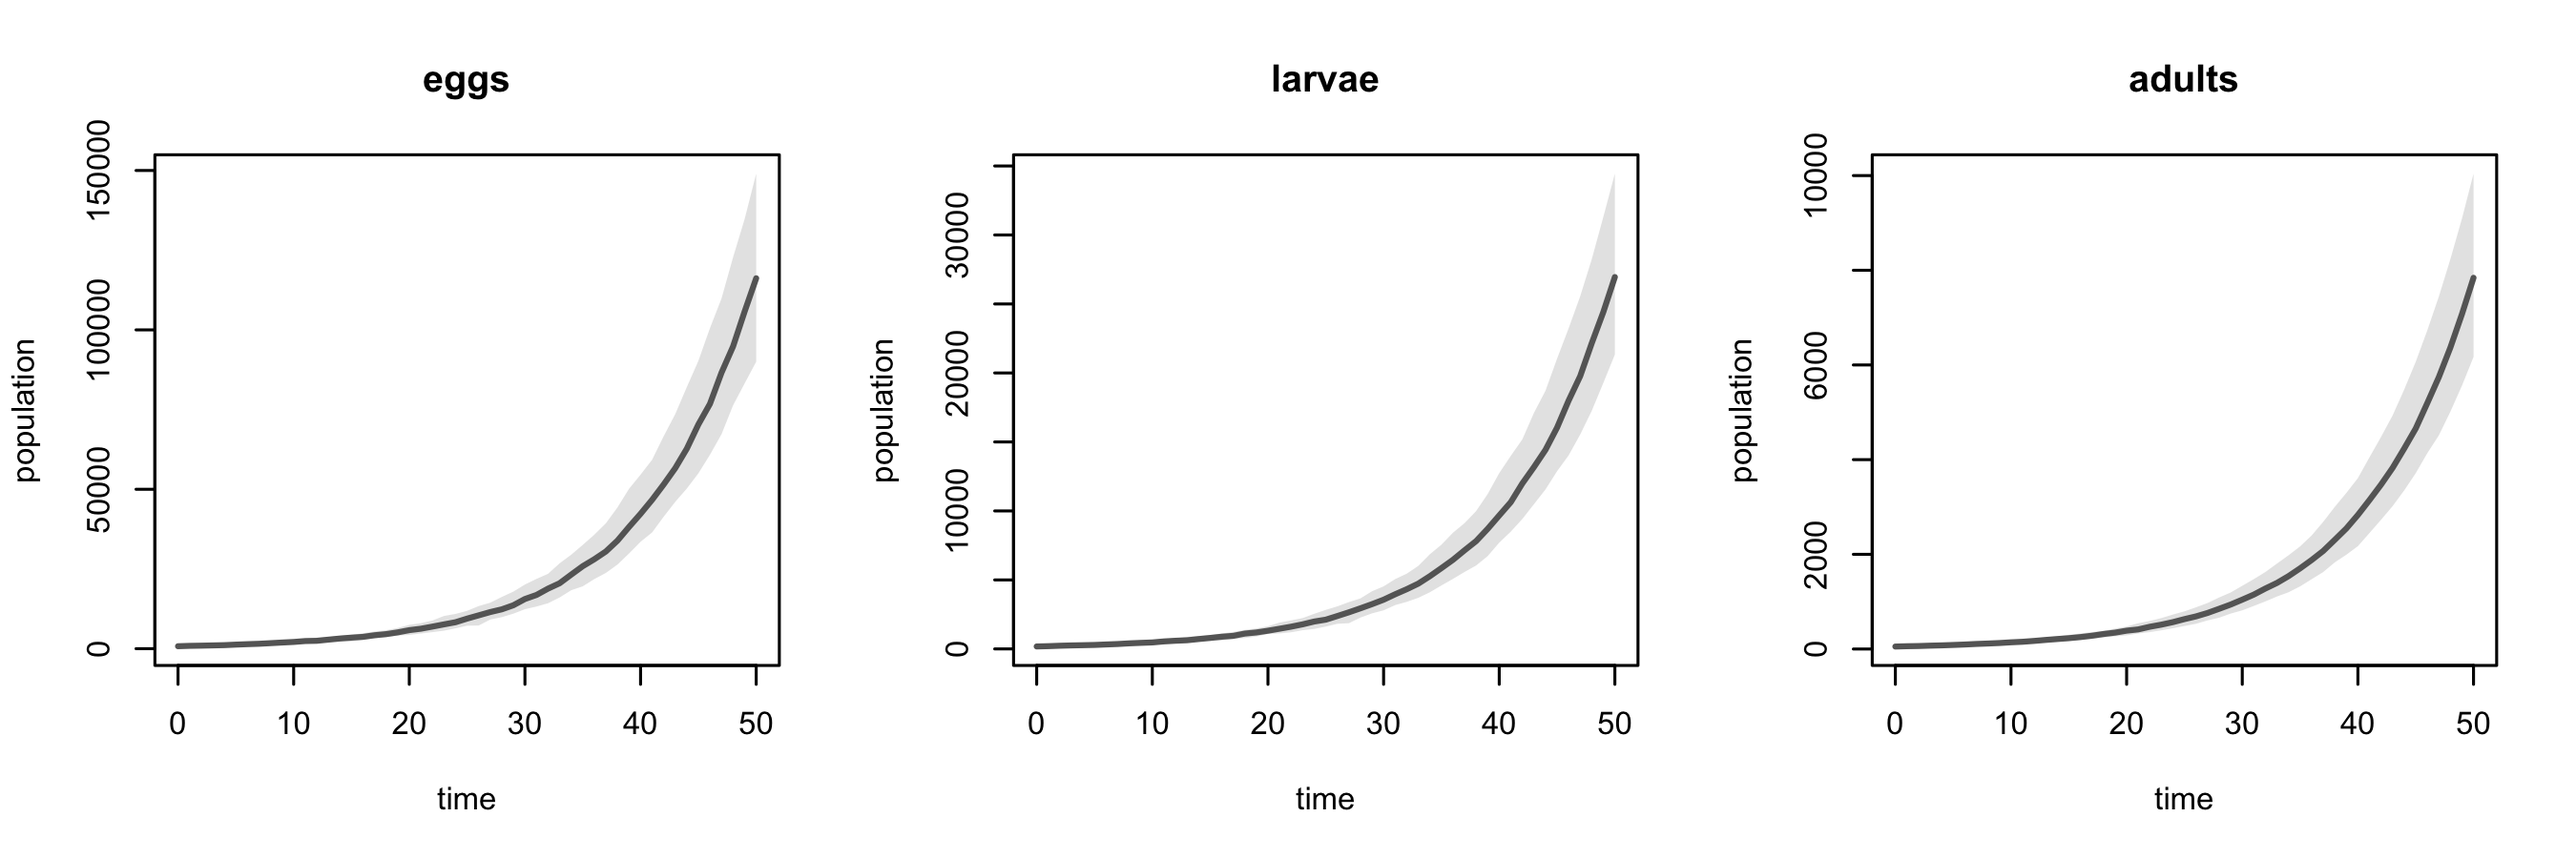
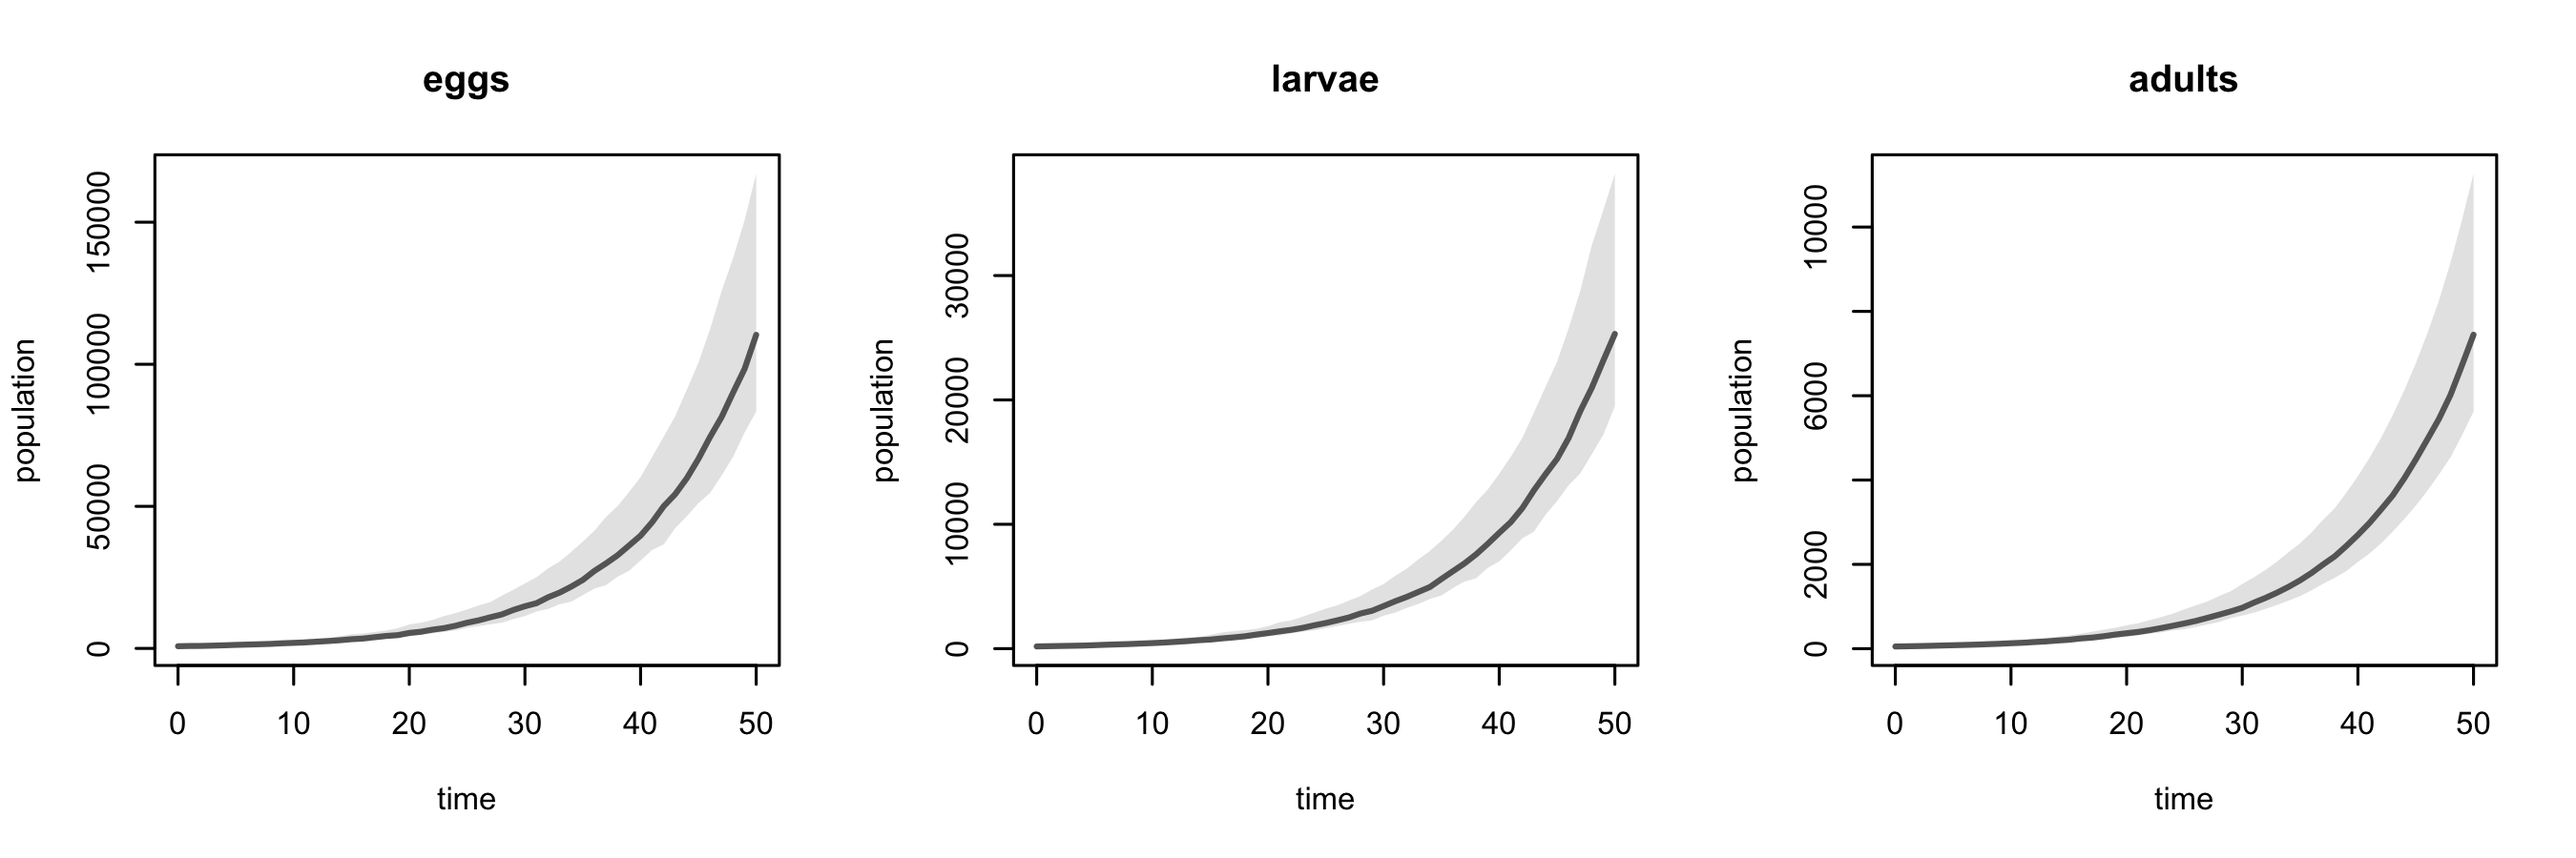
fixing bug in simulation (hang over from slimmer_dynamic work)

diff --git a/readme.md b/readme.md
@@ -146,13 +146,16 @@ We can use this functionality to update the above simulation analysis with densi
 
 ``` r
 # density-dependent adult survival function (patch is a required argument)
-ddfun <- function (patch) {
-  adult_density <- population(patch, 'adults') / area(patch)
-  0.9 * exp(-adult_density / 1000)
+ddfun <- function (landscape) {
+  adult_density <- population(landscape, 'adults') / area(landscape)
+  param$p * exp(-adult_density / param$area)
 }
 
 # turn it into a transfun object
-dd <- as.transfun(ddfun, type = 'probability')
+dd <- as.transfun(ddfun,
+                  param = list(p = 0.9,
+                               area = 1000),
+                  type = 'probability')
 
 # use it in a transition and update the dynamic
 survival_adult_dd <- tr(adults ~ adults, dd)
